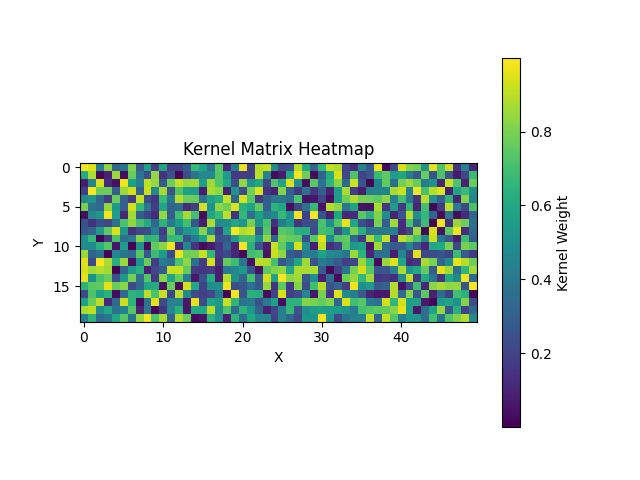
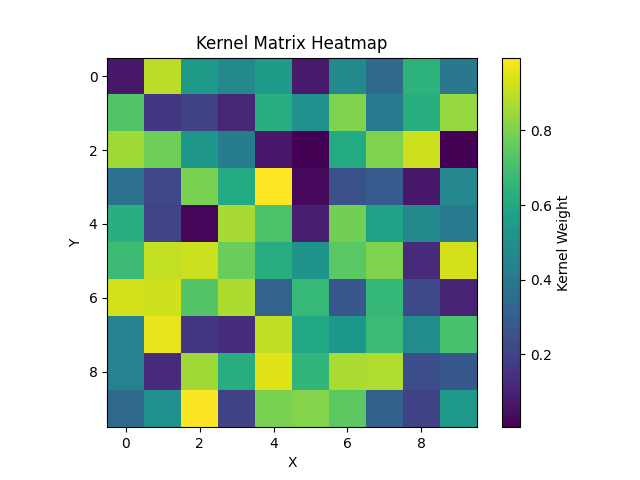
updated altair_backend for high resolution property layer

diff --git a/mesa/experimental/continuous_space/test.py b/mesa/experimental/continuous_space/test.py
@@ -19,7 +19,7 @@ from mesa.visualization.utils import update_counter
 def plotheatmap(m, name):
     plt.imshow(m, cmap='viridis', interpolation='nearest')
     plt.colorbar(label='Kernel Weight')
-    plt.title('Kernel Matrix Heatmap')
+    plt.title(name)
     plt.xlabel('X')
     plt.ylabel('Y')
     plt.savefig(name) 
@@ -52,39 +52,39 @@ class ModelT(Model):
         )
 
         self.space.create_property(
-            name="step_count",
+            name="trace_layer",
             resolution=5,
             default_value=0,
             dtype=float
         )
         d=np.random.rand(10, 10)
-        self.space.add_property("from_data", d)
+        self.space.add_property("random_layer", d)
 
         AgentT.create_agents(model=self, n=n_agents)
 
     def step(self):
         self.agents.shuffle_do("step")
         pos=self.space.agent_positions
-        self.space.step_count.deposit_splat(
+        self.space.trace_layer.deposit_splat(
             pos=pos, 
             value=2,
             mode="add",
             kernel="gaussian",
             spread=0.5
         )
-        self.space.step_count.decay(
+        self.space.trace_layer.decay(
             T=100,
             type="exponential",
             k=1.0
         )
 
         d=np.random.rand(10, 10)
-        self.space.from_data.data=d
+        self.space.random_layer.data=d
 
-        if "randomL" in self.space._property:
-            self.space.randomL.data+=np.indices((200, 200)).sum(axis=0)
-            mask=self.space.randomL.get_neighborhood_mask(pos[0], 3, True)
-            self.space.randomL.data[mask]=0
+        if "buffer_layer" in self.space._property:
+            self.space.buffer_layer.data+=np.indices((40, 40)).sum(axis=0)
+            mask=self.space.buffer_layer.get_neighborhood_mask(pos[0], 1.5, True)
+            self.space.buffer_layer.data[mask]=0
 
 
 
@@ -100,93 +100,63 @@ if __name__ == "__main__":
     )
 
     layer2=PropertyLayer(
-        name="randomL",
+        name="buffer_layer",
         bounds=(10,10),
         resolution=4,
         default_value=2
     )
 
-    # layer3=PropertyLayer.from_data(
-    #     name="from_data",
+    # layer3=PropertyLayer.random_layer(
+    #     name="random_layer",
     #     data=d,
-    #     bounds=[[0,50], [0,50]],
+    #     bounds=[[0,10], [0,10]],
     #     resolution=1
     # )
 
-    # model.run_for(100)
-    # plotheatmap(model.space.step_count.data, "step_count")
-    # model.space._attach_property(layer2)
-    # model.run_for(5)
-    # plotheatmap(model.space.randomL.data, "randomL")
-    # model.space.add_property("from_data", d)
-    # plotheatmap(model.space.from_data.data, "from-data")
+    model.run_for(100)
+    plotheatmap(model.space.trace_layer.data, "trace_layer")
+    model.space._attach_property(layer2)
+    model.run_for(5)
+    plotheatmap(model.space.buffer_layer.data, "buffer_layer")
+    plotheatmap(model.space.random_layer.data, "random_layer")
 
-    # print(model.step_count.aggregate(operation=np.mean))
+    print(model.space.trace_layer.aggregate(operation=np.mean))
 
-    def agent_portrayal(agent):
-        return AgentPortrayalStyle(size=10, marker='o', color='red')
+    # def agent_portrayal(agent):
+    #     return AgentPortrayalStyle(size=10, marker='o', color='red')
         
 
-    def propertylayer_portrayal(layer):
-        if layer.name=="step_count":
-            return PropertyLayerStyle(color='blue', alpha=0.8, colorbar=True)
-        if layer.name=="from_data":
-            return PropertyLayerStyle(color='green', alpha=0.5, colorbar=True)
+    # def propertylayer_portrayal(layer):
+    #     if layer.name=="trace_layer":
+    #         return PropertyLayerStyle(color='blue', alpha=0.8, colorbar=True)
+    #     if layer.name=="random_layer":
+    #         return PropertyLayerStyle(color='green', alpha=0.5, colorbar=True)
         
         
         
-    model_params={
-        "rng":None,
-        "width":10,
-        "height":10,
-        "n_agents":5
-    }
+    # model_params={
+    #     "rng":None,
+    #     "width":10,
+    #     "height":10,
+    #     "n_agents":5
+    # }
 
-    renderer = (
-        SpaceRenderer(
-            model,
-            backend="altair",
-        )
-    )
-    renderer.draw_agents(agent_portrayal)
-    renderer.draw_propertylayer(propertylayer_portrayal)
-
-    page = SolaraViz(
-        model,
-        renderer,
-        model_params=model_params,
-        name="Actice Walker Model",
-    )
-
-    page
-
-    # print(model._property_layers)
-    # model.remove_property_layer("step_count")
-    # print("---")
-    # print(model._property_layers)
-
-    # layer=PropertyLayer(
-    #     name="trial",
-    #     bounds=(100,100),
-    #     resolution=2,
-    #     default_value=1,
-    #     dtype=float
-    # )   
-
-
-    # layer.deposit_splat(
-    #     pos=[(1.2,66.8), (91.7, 55.4), (32, 78)], 
-    #     value=5, 
-    #     mode="add",
-    #     alpha=None, 
-    #     kernel="gaussian",
-    #     spread=10, 
-    #     torus=False
+    # renderer = (
+    #     SpaceRenderer(
+    #         model,
+    #         backend="altair",
+    #     )
     # )
-    # mask=layer.get_neighborhood_mask((78.9,25.4), 8, False)
-    # T=5
-    # for _ in range (T):
-    #     layer.decay(T, "exponential", 2)
-    #     plotheatmap(layer.data)
-    #     time.sleep(5)
+    # renderer.draw_agents(agent_portrayal)
+    # renderer.draw_propertylayer(propertylayer_portrayal)
 
+    # page = SolaraViz(
+    #     model,
+    #     renderer,
+    #     model_params=model_params,
+    #     name="Actice Walker Model",
+    # )
+
+    # page
+
+    

diff --git a/mesa/visualization/backends/altair_backend.py b/mesa/visualization/backends/altair_backend.py
@@ -364,16 +364,33 @@ class AltairBackend(AbstractRenderer):
                 continue
 
             data = layer.data.astype(float) if layer.data.dtype == bool else layer.data
+            sx, sy = space.width, space.height
+            nx, ny = data.shape
+
+            if (nx, ny) == (sx, sy):
+                res_x, res_y = 1, 1
+            else:
+                # Accept integer multiples, e.g. (sx*2, sy*2)
+                if nx % sx != 0 or ny % sy != 0:
+                    warnings.warn(
+                        f"Layer {layer_name} dimensions ({data.shape}) are not a multiple of "
+                        f"space dimensions ({sx}, {sy}). Skipping.",
+                        UserWarning,
+                        stacklevel=2,
+                    )
+                    continue
+                res_x, res_y = nx // sx, ny // sy
+
 
             # Check dimensions
-            if (space.width, space.height) != data.shape:
-                warnings.warn(
-                    f"Layer {layer_name} dimensions ({data.shape}) "
-                    f"don't match space dimensions ({space.width}, {space.height})",
-                    UserWarning,
-                    stacklevel=2,
-                )
-                continue
+            # if (space.width, space.height) != data.shape:
+            #     warnings.warn(
+            #         f"Layer {layer_name} dimensions ({data.shape}) "
+            #         f"don't match space dimensions ({space.width}, {space.height})",
+            #         UserWarning,
+            #         stacklevel=2,
+            #     )
+            #     continue
 
             # Get portrayal parameters
             color = portrayal.color
@@ -382,13 +399,25 @@ class AltairBackend(AbstractRenderer):
             vmin = portrayal.vmin if portrayal.vmin is not None else np.min(data)
             vmax = portrayal.vmax if portrayal.vmax is not None else np.max(data)
 
+            i = np.repeat(np.arange(nx), ny)             # 0..nx-1 repeated
+            j = np.tile(np.arange(ny), nx)              # 0..ny-1 tiled
+
             df = pd.DataFrame(
                 {
-                    "x": np.repeat(np.arange(data.shape[0]), data.shape[1]),
-                    "y": np.tile(np.arange(data.shape[1] - 1, -1, -1), data.shape[0]),
+                    "x0": i / res_x,
+                    "x1": (i + 1) / res_x,
+                    "y0": j / res_y,
+                    "y1": (j+1) / res_y,
                     "value": data.flatten(),
                 }
             )
+            # df = pd.DataFrame(
+            #     {
+            #         "x": np.repeat(np.arange(data.shape[0]), data.shape[1]),
+            #         "y": np.tile(np.arange(data.shape[1] - 1, -1, -1), data.shape[0]),
+            #         "value": data.flatten(),
+            #     }
+            # )
 
             if color:
                 # For a single color gradient, we define the range from transparent to solid.
@@ -416,8 +445,10 @@ class AltairBackend(AbstractRenderer):
                 alt.Chart(df)
                 .mark_rect(opacity=opacity)
                 .encode(
-                    x=alt.X("x:O", axis=None),
-                    y=alt.Y("y:O", axis=None),
+                    x=alt.X("x0:Q", axis=None, scale=alt.Scale(domain=[0, sx])),
+                    x2="x1:Q",
+                    y=alt.Y("y0:Q", axis=None, scale=alt.Scale(domain=[0, sy])),
+                    y2="y1:Q",
                     color=alt.Color(
                         "value:Q",
                         scale=color_scale,

diff --git a/mesa/visualization/space_renderer.py b/mesa/visualization/space_renderer.py
@@ -340,7 +340,10 @@ class SpaceRenderer:
             property_layers = self.space.properties
         except AttributeError:
             # new style spaces
-            property_layers = self.space._mesa_property_layers
+            if hasattr(self.space, "_mesa_property_layers"):
+                property_layers = self.space._mesa_property_layers
+            elif hasattr(self.space, "_property"):
+                property_layers = self.space._property
 
         # Convert portrayal to callable if needed
         if isinstance(self.propertylayer_portrayal, dict):
